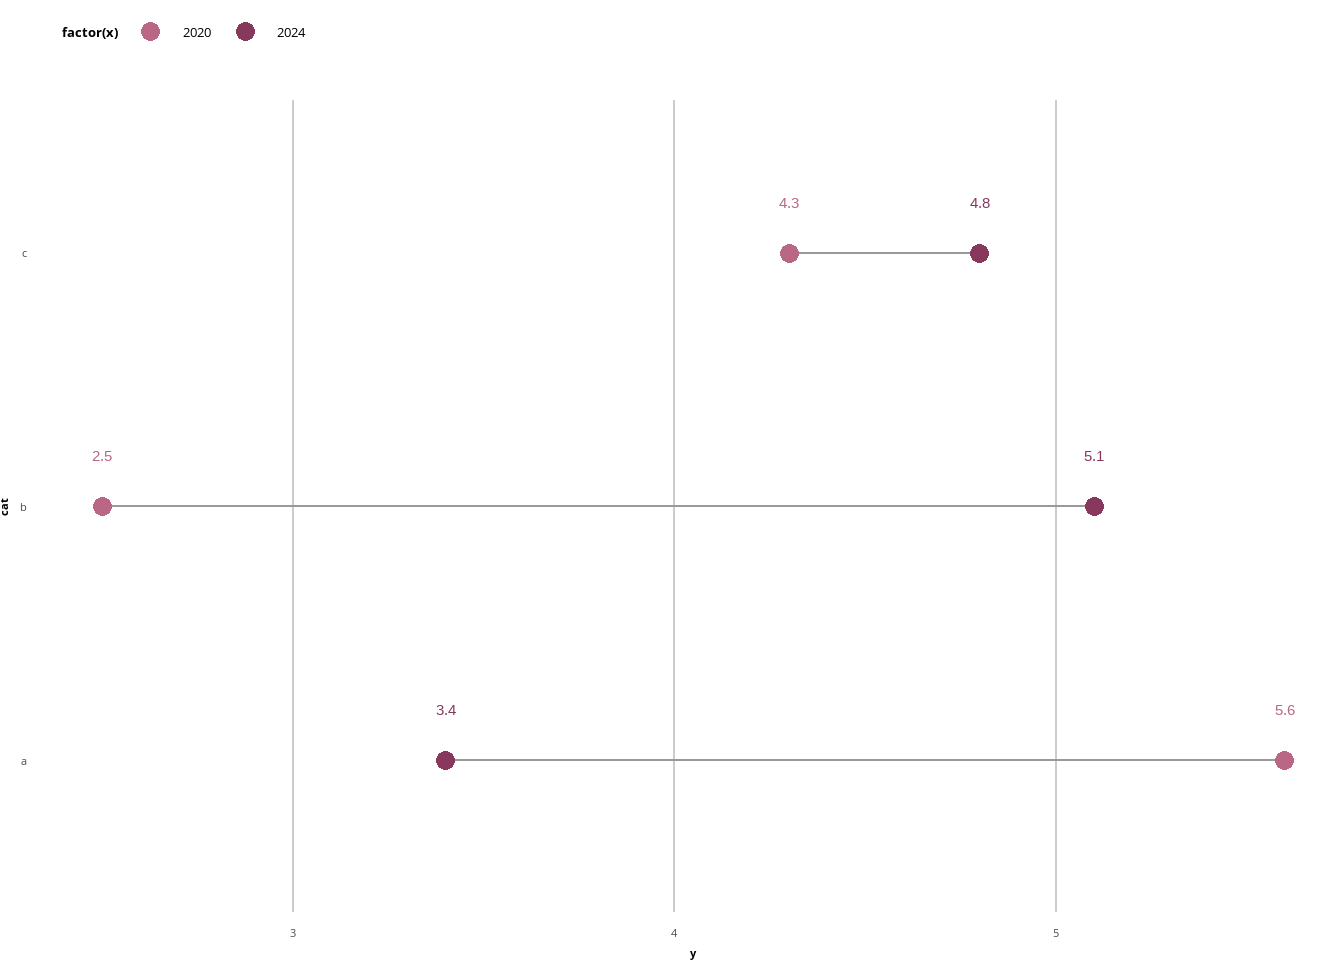
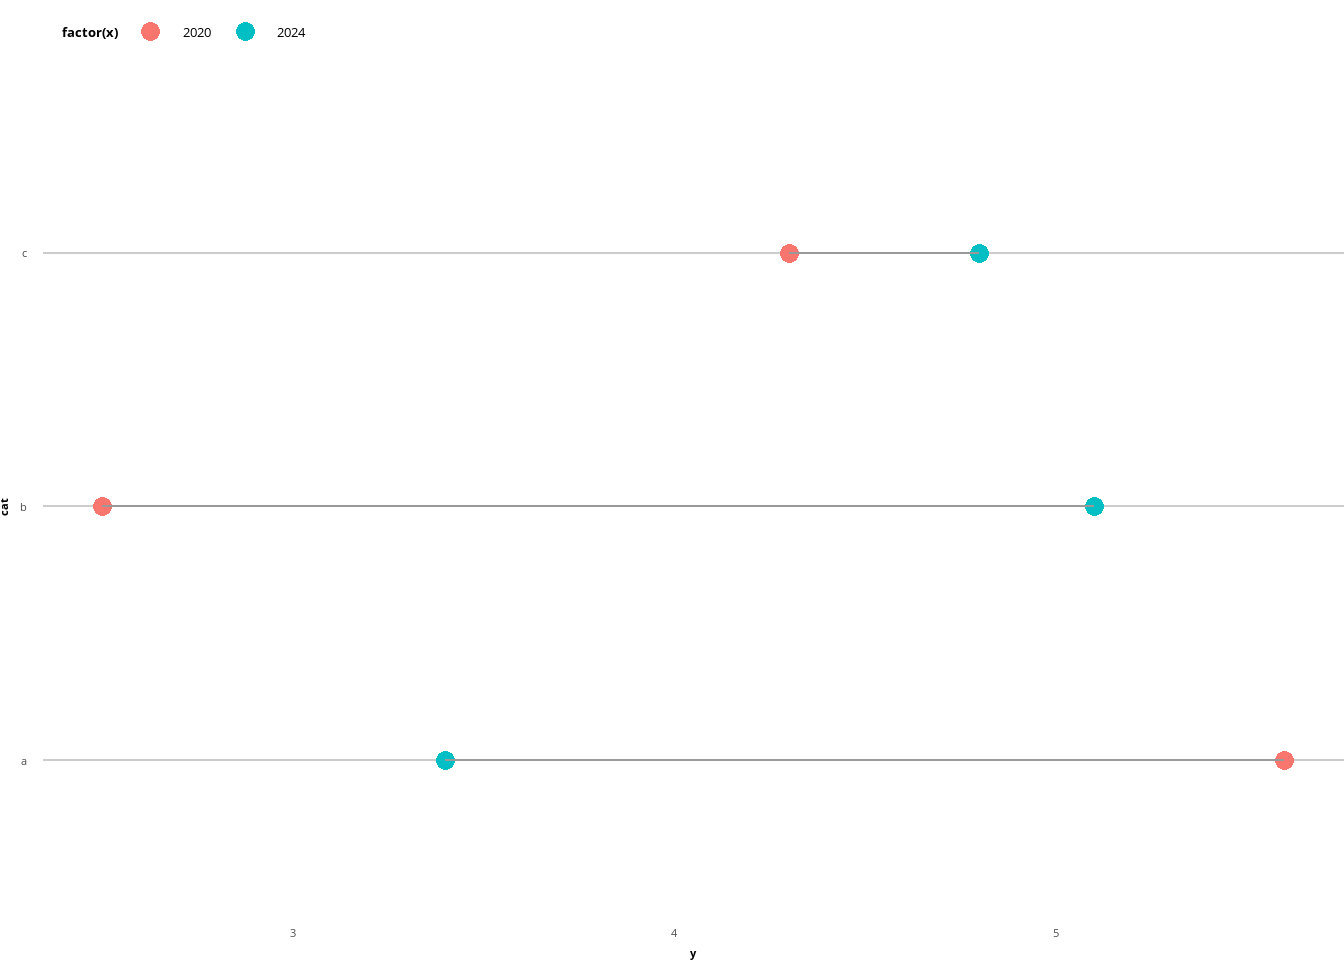
keep charts

diff --git a/_book/chart_types.html b/_book/chart_types.html
@@ -494,17 +494,28 @@ Option 2:</p>
 <div class="cell">
 <div class="sourceCode cell-code" id="cb14"><pre class="sourceCode r code-with-copy"><code class="sourceCode r"><span id="cb14-1"><a href="#cb14-1" aria-hidden="true" tabindex="-1"></a>df_scatter <span class="ot">&lt;-</span> <span class="fu">data.frame</span>(</span>
 <span id="cb14-2"><a href="#cb14-2" aria-hidden="true" tabindex="-1"></a>    <span class="at">x =</span> <span class="fu">rnorm</span>(<span class="fl">1e3</span>, <span class="dv">4</span>, <span class="fl">1.2</span>),</span>
-<span id="cb14-3"><a href="#cb14-3" aria-hidden="true" tabindex="-1"></a>    <span class="at">x_2 =</span> <span class="fu">rnorm</span>(<span class="fl">1e3</span>, <span class="fl">1.2</span>, <span class="fl">1.7</span>),</span>
-<span id="cb14-4"><a href="#cb14-4" aria-hidden="true" tabindex="-1"></a>    <span class="at">cat =</span> <span class="fu">factor</span>(<span class="fu">rbinom</span>(<span class="fl">1e3</span>, <span class="dv">1</span>, .<span class="dv">5</span>))</span>
-<span id="cb14-5"><a href="#cb14-5" aria-hidden="true" tabindex="-1"></a>)</span>
-<span id="cb14-6"><a href="#cb14-6" aria-hidden="true" tabindex="-1"></a></span>
-<span id="cb14-7"><a href="#cb14-7" aria-hidden="true" tabindex="-1"></a>df_scatter<span class="sc">$</span>y <span class="ot">&lt;-</span> <span class="fu">rnorm</span>(<span class="fl">1e3</span>, <span class="dv">2</span> <span class="sc">+</span> .<span class="dv">5</span><span class="sc">*</span>df_scatter<span class="sc">$</span>x <span class="sc">-</span> .<span class="dv">8</span><span class="sc">*</span>df_scatter<span class="sc">$</span>x_2 <span class="sc">+</span> .<span class="dv">5</span><span class="sc">*</span>df_scatter<span class="sc">$</span>x<span class="sc">*</span>df_scatter<span class="sc">$</span>x_2, <span class="fl">1.4</span>)</span>
-<span id="cb14-8"><a href="#cb14-8" aria-hidden="true" tabindex="-1"></a></span>
-<span id="cb14-9"><a href="#cb14-9" aria-hidden="true" tabindex="-1"></a>df_scatter <span class="sc">%&gt;%</span></span>
-<span id="cb14-10"><a href="#cb14-10" aria-hidden="true" tabindex="-1"></a><span class="fu">ggplot</span>(<span class="fu">aes</span>(<span class="at">x =</span> x, <span class="at">y =</span> y, <span class="at">color =</span> cat)) <span class="sc">+</span></span>
-<span id="cb14-11"><a href="#cb14-11" aria-hidden="true" tabindex="-1"></a><span class="fu">geom_count</span>() <span class="sc">+</span></span>
-<span id="cb14-12"><a href="#cb14-12" aria-hidden="true" tabindex="-1"></a><span class="fu">scale_color_manual</span>(<span class="at">values =</span> cbu_cat_2) <span class="sc">+</span></span>
-<span id="cb14-13"><a href="#cb14-13" aria-hidden="true" tabindex="-1"></a><span class="fu">theme_cbu</span>()</span></code><button title="Copy to Clipboard" class="code-copy-button"><i class="bi"></i></button></pre></div>
+<span id="cb14-3"><a href="#cb14-3" aria-hidden="true" tabindex="-1"></a>    <span class="at">cat =</span> <span class="fu">rbinom</span>(<span class="fl">1e3</span>, <span class="dv">1</span>, .<span class="dv">5</span>)</span>
+<span id="cb14-4"><a href="#cb14-4" aria-hidden="true" tabindex="-1"></a>)</span>
+<span id="cb14-5"><a href="#cb14-5" aria-hidden="true" tabindex="-1"></a></span>
+<span id="cb14-6"><a href="#cb14-6" aria-hidden="true" tabindex="-1"></a>df_scatter<span class="sc">$</span>y <span class="ot">&lt;-</span> <span class="fu">rnorm</span>(<span class="fl">1e3</span>, <span class="dv">2</span> <span class="sc">+</span> .<span class="dv">5</span><span class="sc">*</span>df_scatter<span class="sc">$</span>x <span class="sc">-</span> .<span class="dv">8</span><span class="sc">*</span>df_scatter<span class="sc">$</span>x_2 <span class="sc">+</span> .<span class="dv">5</span><span class="sc">*</span>df_scatter<span class="sc">$</span>x<span class="sc">*</span>df_scatter<span class="sc">$</span>x_2, <span class="fl">1.4</span>)</span></code><button title="Copy to Clipboard" class="code-copy-button"><i class="bi"></i></button></pre></div>
+<div class="cell-output cell-output-stderr">
+<pre><code>Warning in rnorm(1000, 2 + 0.5 * df_scatter$x - 0.8 * df_scatter$x_2 + 0.5 * :
+NAs produced</code></pre>
+</div>
+<div class="sourceCode cell-code" id="cb16"><pre class="sourceCode r code-with-copy"><code class="sourceCode r"><span id="cb16-1"><a href="#cb16-1" aria-hidden="true" tabindex="-1"></a>df_scatter <span class="sc">%&gt;%</span></span>
+<span id="cb16-2"><a href="#cb16-2" aria-hidden="true" tabindex="-1"></a><span class="fu">ggplot</span>(<span class="fu">aes</span>(<span class="at">x =</span> x, <span class="at">y =</span> y, <span class="at">color =</span> cat)) <span class="sc">+</span></span>
+<span id="cb16-3"><a href="#cb16-3" aria-hidden="true" tabindex="-1"></a><span class="fu">geom_count</span>() <span class="sc">+</span></span>
+<span id="cb16-4"><a href="#cb16-4" aria-hidden="true" tabindex="-1"></a><span class="fu">scale_fill_manual</span>(<span class="at">values =</span> cbu_cat_2) <span class="sc">+</span></span>
+<span id="cb16-5"><a href="#cb16-5" aria-hidden="true" tabindex="-1"></a><span class="fu">theme_cbu</span>()</span></code><button title="Copy to Clipboard" class="code-copy-button"><i class="bi"></i></button></pre></div>
+<div class="cell-output cell-output-stderr">
+<pre><code>Warning: Removed 1000 rows containing non-finite outside the scale range
+(`stat_sum()`).</code></pre>
+</div>
+<div class="cell-output cell-output-stderr">
+<pre><code>Warning: Computation failed in `stat_sum()`.
+Caused by error in `$&lt;-.data.frame`:
+! replacement has 1 row, data has 0</code></pre>
+</div>
 <div class="cell-output-display">
 <div>
 <figure class="figure">
@@ -538,22 +549,18 @@ Option 2:</p>
 <h3 data-number="5.0.7" class="anchored" data-anchor-id="dumbbell-charts"><span class="header-section-number">5.0.7</span> Dumbbell charts</h3>
 <p>Dumbell charts are good for comparing changes or categories</p>
 <div class="cell">
-<div class="sourceCode cell-code" id="cb15"><pre class="sourceCode r code-with-copy"><code class="sourceCode r"><span id="cb15-1"><a href="#cb15-1" aria-hidden="true" tabindex="-1"></a>df_dc <span class="ot">&lt;-</span> <span class="fu">data.frame</span>(</span>
-<span id="cb15-2"><a href="#cb15-2" aria-hidden="true" tabindex="-1"></a>    <span class="at">x =</span> <span class="fu">c</span>(<span class="dv">2020</span>, <span class="dv">2024</span>, <span class="dv">2020</span>, <span class="dv">2024</span>, <span class="dv">2020</span>, <span class="dv">2024</span>),</span>
-<span id="cb15-3"><a href="#cb15-3" aria-hidden="true" tabindex="-1"></a>    <span class="at">y =</span> <span class="fu">c</span>(<span class="fl">5.6</span>, <span class="fl">3.4</span>, <span class="fl">2.5</span>, <span class="fl">5.1</span>, <span class="fl">4.3</span>, <span class="fl">4.8</span>),</span>
-<span id="cb15-4"><a href="#cb15-4" aria-hidden="true" tabindex="-1"></a>    <span class="at">cat =</span> <span class="fu">c</span>(<span class="st">"a"</span>, <span class="st">"a"</span>, <span class="st">"b"</span>, <span class="st">"b"</span>, <span class="st">"c"</span>, <span class="st">"c"</span>)</span>
-<span id="cb15-5"><a href="#cb15-5" aria-hidden="true" tabindex="-1"></a>)</span>
-<span id="cb15-6"><a href="#cb15-6" aria-hidden="true" tabindex="-1"></a></span>
-<span id="cb15-7"><a href="#cb15-7" aria-hidden="true" tabindex="-1"></a>df_dc <span class="sc">%&gt;%</span></span>
-<span id="cb15-8"><a href="#cb15-8" aria-hidden="true" tabindex="-1"></a><span class="fu">ggplot</span>(<span class="fu">aes</span>(<span class="at">x =</span> cat, <span class="at">y =</span> y, <span class="at">color =</span> <span class="fu">factor</span>(x))) <span class="sc">+</span></span>
-<span id="cb15-9"><a href="#cb15-9" aria-hidden="true" tabindex="-1"></a><span class="fu">geom_line</span>(<span class="fu">aes</span>(<span class="at">group =</span> cat), <span class="at">color =</span> <span class="st">"grey60"</span>) <span class="sc">+</span></span>
-<span id="cb15-10"><a href="#cb15-10" aria-hidden="true" tabindex="-1"></a><span class="fu">geom_point</span>(<span class="at">size =</span> <span class="dv">3</span>) <span class="sc">+</span></span>
-<span id="cb15-11"><a href="#cb15-11" aria-hidden="true" tabindex="-1"></a><span class="fu">geom_text</span>(<span class="fu">aes</span>(<span class="at">label =</span> y), <span class="at">nudge_x =</span> .<span class="dv">2</span>) <span class="sc">+</span></span>
-<span id="cb15-12"><a href="#cb15-12" aria-hidden="true" tabindex="-1"></a><span class="fu">scale_color_manual</span>(<span class="at">values =</span> cbu_cat_1) <span class="sc">+</span></span>
-<span id="cb15-13"><a href="#cb15-13" aria-hidden="true" tabindex="-1"></a><span class="fu">coord_flip</span>() <span class="sc">+</span></span>
-<span id="cb15-14"><a href="#cb15-14" aria-hidden="true" tabindex="-1"></a><span class="fu">theme_cbu</span>() <span class="sc">+</span></span>
-<span id="cb15-15"><a href="#cb15-15" aria-hidden="true" tabindex="-1"></a><span class="fu">theme</span>(<span class="at">panel.grid.major.y =</span> <span class="fu">element_blank</span>(),</span>
-<span id="cb15-16"><a href="#cb15-16" aria-hidden="true" tabindex="-1"></a>     <span class="at">panel.grid.major.x =</span> <span class="fu">element_line</span>(<span class="at">color =</span> <span class="st">"grey80"</span>))</span></code><button title="Copy to Clipboard" class="code-copy-button"><i class="bi"></i></button></pre></div>
+<div class="sourceCode cell-code" id="cb19"><pre class="sourceCode r code-with-copy"><code class="sourceCode r"><span id="cb19-1"><a href="#cb19-1" aria-hidden="true" tabindex="-1"></a>df_dc <span class="ot">&lt;-</span> <span class="fu">data.frame</span>(</span>
+<span id="cb19-2"><a href="#cb19-2" aria-hidden="true" tabindex="-1"></a>    <span class="at">x =</span> <span class="fu">c</span>(<span class="dv">2020</span>, <span class="dv">2024</span>, <span class="dv">2020</span>, <span class="dv">2024</span>, <span class="dv">2020</span>, <span class="dv">2024</span>),</span>
+<span id="cb19-3"><a href="#cb19-3" aria-hidden="true" tabindex="-1"></a>    <span class="at">y =</span> <span class="fu">c</span>(<span class="fl">5.6</span>, <span class="fl">3.4</span>, <span class="fl">2.5</span>, <span class="fl">5.1</span>, <span class="fl">4.3</span>, <span class="fl">4.8</span>),</span>
+<span id="cb19-4"><a href="#cb19-4" aria-hidden="true" tabindex="-1"></a>    <span class="at">cat =</span> <span class="fu">c</span>(<span class="st">"a"</span>, <span class="st">"a"</span>, <span class="st">"b"</span>, <span class="st">"b"</span>, <span class="st">"c"</span>, <span class="st">"c"</span>)</span>
+<span id="cb19-5"><a href="#cb19-5" aria-hidden="true" tabindex="-1"></a>)</span>
+<span id="cb19-6"><a href="#cb19-6" aria-hidden="true" tabindex="-1"></a></span>
+<span id="cb19-7"><a href="#cb19-7" aria-hidden="true" tabindex="-1"></a>df_dc <span class="sc">%&gt;%</span></span>
+<span id="cb19-8"><a href="#cb19-8" aria-hidden="true" tabindex="-1"></a><span class="fu">ggplot</span>(<span class="fu">aes</span>(<span class="at">x =</span> cat, <span class="at">y =</span> y, <span class="at">color =</span> <span class="fu">factor</span>(x))) <span class="sc">+</span></span>
+<span id="cb19-9"><a href="#cb19-9" aria-hidden="true" tabindex="-1"></a><span class="fu">geom_point</span>(<span class="at">size =</span> <span class="dv">3</span>) <span class="sc">+</span></span>
+<span id="cb19-10"><a href="#cb19-10" aria-hidden="true" tabindex="-1"></a><span class="fu">geom_line</span>(<span class="fu">aes</span>(<span class="at">group =</span> cat), <span class="at">color =</span> <span class="st">"grey60"</span>) <span class="sc">+</span></span>
+<span id="cb19-11"><a href="#cb19-11" aria-hidden="true" tabindex="-1"></a><span class="fu">coord_flip</span>() <span class="sc">+</span></span>
+<span id="cb19-12"><a href="#cb19-12" aria-hidden="true" tabindex="-1"></a><span class="fu">theme_cbu</span>()</span></code><button title="Copy to Clipboard" class="code-copy-button"><i class="bi"></i></button></pre></div>
 <div class="cell-output-display">
 <div>
 <figure class="figure">
@@ -567,27 +574,27 @@ Option 2:</p>
 <h3 data-number="5.0.8" class="anchored" data-anchor-id="waffle-charts"><span class="header-section-number">5.0.8</span> Waffle charts</h3>
 <p>Waffle charts can be used as alternative to bar charts for displaying counts or percentages. Preferrably they should also have numbers shown.</p>
 <div class="cell">
-<div class="sourceCode cell-code" id="cb16"><pre class="sourceCode r code-with-copy"><code class="sourceCode r"><span id="cb16-1"><a href="#cb16-1" aria-hidden="true" tabindex="-1"></a><span class="fu">library</span>(waffle)</span>
-<span id="cb16-2"><a href="#cb16-2" aria-hidden="true" tabindex="-1"></a></span>
-<span id="cb16-3"><a href="#cb16-3" aria-hidden="true" tabindex="-1"></a>df_cat <span class="sc">%&gt;%</span></span>
-<span id="cb16-4"><a href="#cb16-4" aria-hidden="true" tabindex="-1"></a><span class="fu">count</span>(cat_1, cat_2) <span class="sc">%&gt;%</span></span>
-<span id="cb16-5"><a href="#cb16-5" aria-hidden="true" tabindex="-1"></a><span class="fu">ggplot</span>(</span>
-<span id="cb16-6"><a href="#cb16-6" aria-hidden="true" tabindex="-1"></a>    <span class="fu">aes</span>(<span class="at">fill =</span> cat_1, <span class="at">values =</span> n)</span>
-<span id="cb16-7"><a href="#cb16-7" aria-hidden="true" tabindex="-1"></a>  ) <span class="sc">+</span></span>
-<span id="cb16-8"><a href="#cb16-8" aria-hidden="true" tabindex="-1"></a>  <span class="fu">geom_waffle</span>(</span>
-<span id="cb16-9"><a href="#cb16-9" aria-hidden="true" tabindex="-1"></a>    <span class="at">n_rows =</span> <span class="dv">20</span>,</span>
-<span id="cb16-10"><a href="#cb16-10" aria-hidden="true" tabindex="-1"></a>    <span class="at">size =</span> <span class="fl">0.33</span>, </span>
-<span id="cb16-11"><a href="#cb16-11" aria-hidden="true" tabindex="-1"></a>    <span class="at">colour =</span> <span class="st">"white"</span>,</span>
-<span id="cb16-12"><a href="#cb16-12" aria-hidden="true" tabindex="-1"></a>    <span class="at">flip =</span> <span class="cn">TRUE</span></span>
-<span id="cb16-13"><a href="#cb16-13" aria-hidden="true" tabindex="-1"></a>  ) <span class="sc">+</span></span>
-<span id="cb16-14"><a href="#cb16-14" aria-hidden="true" tabindex="-1"></a>  <span class="fu">scale_fill_manual</span>(</span>
-<span id="cb16-15"><a href="#cb16-15" aria-hidden="true" tabindex="-1"></a>    <span class="at">name =</span> <span class="cn">NULL</span>,</span>
-<span id="cb16-16"><a href="#cb16-16" aria-hidden="true" tabindex="-1"></a>    <span class="at">values =</span> cbu_cat_2</span>
-<span id="cb16-17"><a href="#cb16-17" aria-hidden="true" tabindex="-1"></a>  ) <span class="sc">+</span></span>
-<span id="cb16-18"><a href="#cb16-18" aria-hidden="true" tabindex="-1"></a>  <span class="fu">facet_wrap</span>(<span class="sc">~</span>cat_2, <span class="at">nrow =</span> <span class="dv">1</span>) <span class="sc">+</span></span>
-<span id="cb16-19"><a href="#cb16-19" aria-hidden="true" tabindex="-1"></a>  <span class="fu">coord_equal</span>() <span class="sc">+</span></span>
-<span id="cb16-20"><a href="#cb16-20" aria-hidden="true" tabindex="-1"></a>  <span class="fu">theme_enhance_waffle</span>() <span class="sc">+</span></span>
-<span id="cb16-21"><a href="#cb16-21" aria-hidden="true" tabindex="-1"></a>  <span class="fu">theme_cbu</span>()</span></code><button title="Copy to Clipboard" class="code-copy-button"><i class="bi"></i></button></pre></div>
+<div class="sourceCode cell-code" id="cb20"><pre class="sourceCode r code-with-copy"><code class="sourceCode r"><span id="cb20-1"><a href="#cb20-1" aria-hidden="true" tabindex="-1"></a><span class="fu">library</span>(waffle)</span>
+<span id="cb20-2"><a href="#cb20-2" aria-hidden="true" tabindex="-1"></a></span>
+<span id="cb20-3"><a href="#cb20-3" aria-hidden="true" tabindex="-1"></a>df_cat <span class="sc">%&gt;%</span></span>
+<span id="cb20-4"><a href="#cb20-4" aria-hidden="true" tabindex="-1"></a><span class="fu">count</span>(cat_1, cat_2) <span class="sc">%&gt;%</span></span>
+<span id="cb20-5"><a href="#cb20-5" aria-hidden="true" tabindex="-1"></a><span class="fu">ggplot</span>(</span>
+<span id="cb20-6"><a href="#cb20-6" aria-hidden="true" tabindex="-1"></a>    <span class="fu">aes</span>(<span class="at">fill =</span> cat_1, <span class="at">values =</span> n)</span>
+<span id="cb20-7"><a href="#cb20-7" aria-hidden="true" tabindex="-1"></a>  ) <span class="sc">+</span></span>
+<span id="cb20-8"><a href="#cb20-8" aria-hidden="true" tabindex="-1"></a>  <span class="fu">geom_waffle</span>(</span>
+<span id="cb20-9"><a href="#cb20-9" aria-hidden="true" tabindex="-1"></a>    <span class="at">n_rows =</span> <span class="dv">20</span>,</span>
+<span id="cb20-10"><a href="#cb20-10" aria-hidden="true" tabindex="-1"></a>    <span class="at">size =</span> <span class="fl">0.33</span>, </span>
+<span id="cb20-11"><a href="#cb20-11" aria-hidden="true" tabindex="-1"></a>    <span class="at">colour =</span> <span class="st">"white"</span>,</span>
+<span id="cb20-12"><a href="#cb20-12" aria-hidden="true" tabindex="-1"></a>    <span class="at">flip =</span> <span class="cn">TRUE</span></span>
+<span id="cb20-13"><a href="#cb20-13" aria-hidden="true" tabindex="-1"></a>  ) <span class="sc">+</span></span>
+<span id="cb20-14"><a href="#cb20-14" aria-hidden="true" tabindex="-1"></a>  <span class="fu">scale_fill_manual</span>(</span>
+<span id="cb20-15"><a href="#cb20-15" aria-hidden="true" tabindex="-1"></a>    <span class="at">name =</span> <span class="cn">NULL</span>,</span>
+<span id="cb20-16"><a href="#cb20-16" aria-hidden="true" tabindex="-1"></a>    <span class="at">values =</span> cbu_cat_2</span>
+<span id="cb20-17"><a href="#cb20-17" aria-hidden="true" tabindex="-1"></a>  ) <span class="sc">+</span></span>
+<span id="cb20-18"><a href="#cb20-18" aria-hidden="true" tabindex="-1"></a>  <span class="fu">facet_wrap</span>(<span class="sc">~</span>cat_2, <span class="at">nrow =</span> <span class="dv">1</span>) <span class="sc">+</span></span>
+<span id="cb20-19"><a href="#cb20-19" aria-hidden="true" tabindex="-1"></a>  <span class="fu">coord_equal</span>() <span class="sc">+</span></span>
+<span id="cb20-20"><a href="#cb20-20" aria-hidden="true" tabindex="-1"></a>  <span class="fu">theme_enhance_waffle</span>() <span class="sc">+</span></span>
+<span id="cb20-21"><a href="#cb20-21" aria-hidden="true" tabindex="-1"></a>  <span class="fu">theme_cbu</span>()</span></code><button title="Copy to Clipboard" class="code-copy-button"><i class="bi"></i></button></pre></div>
 <div class="cell-output-display">
 <div>
 <figure class="figure">
